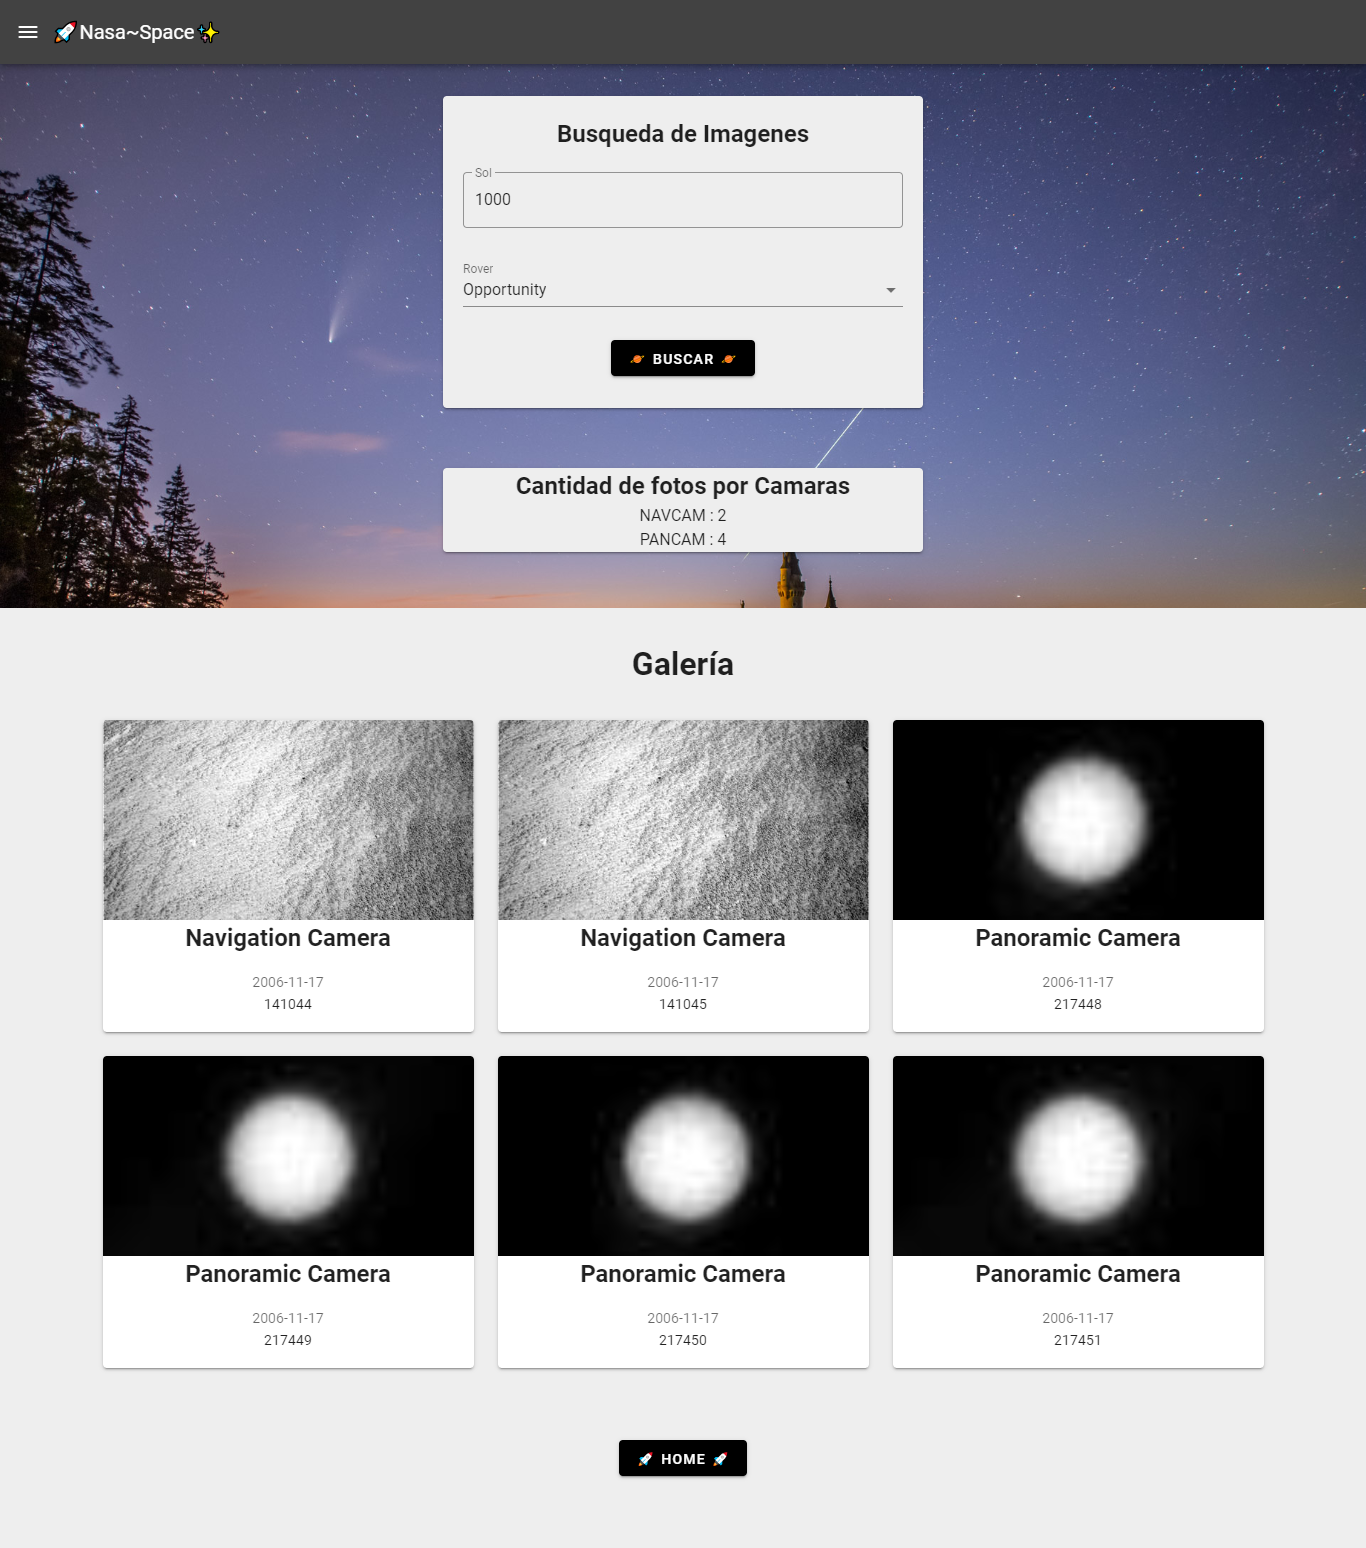
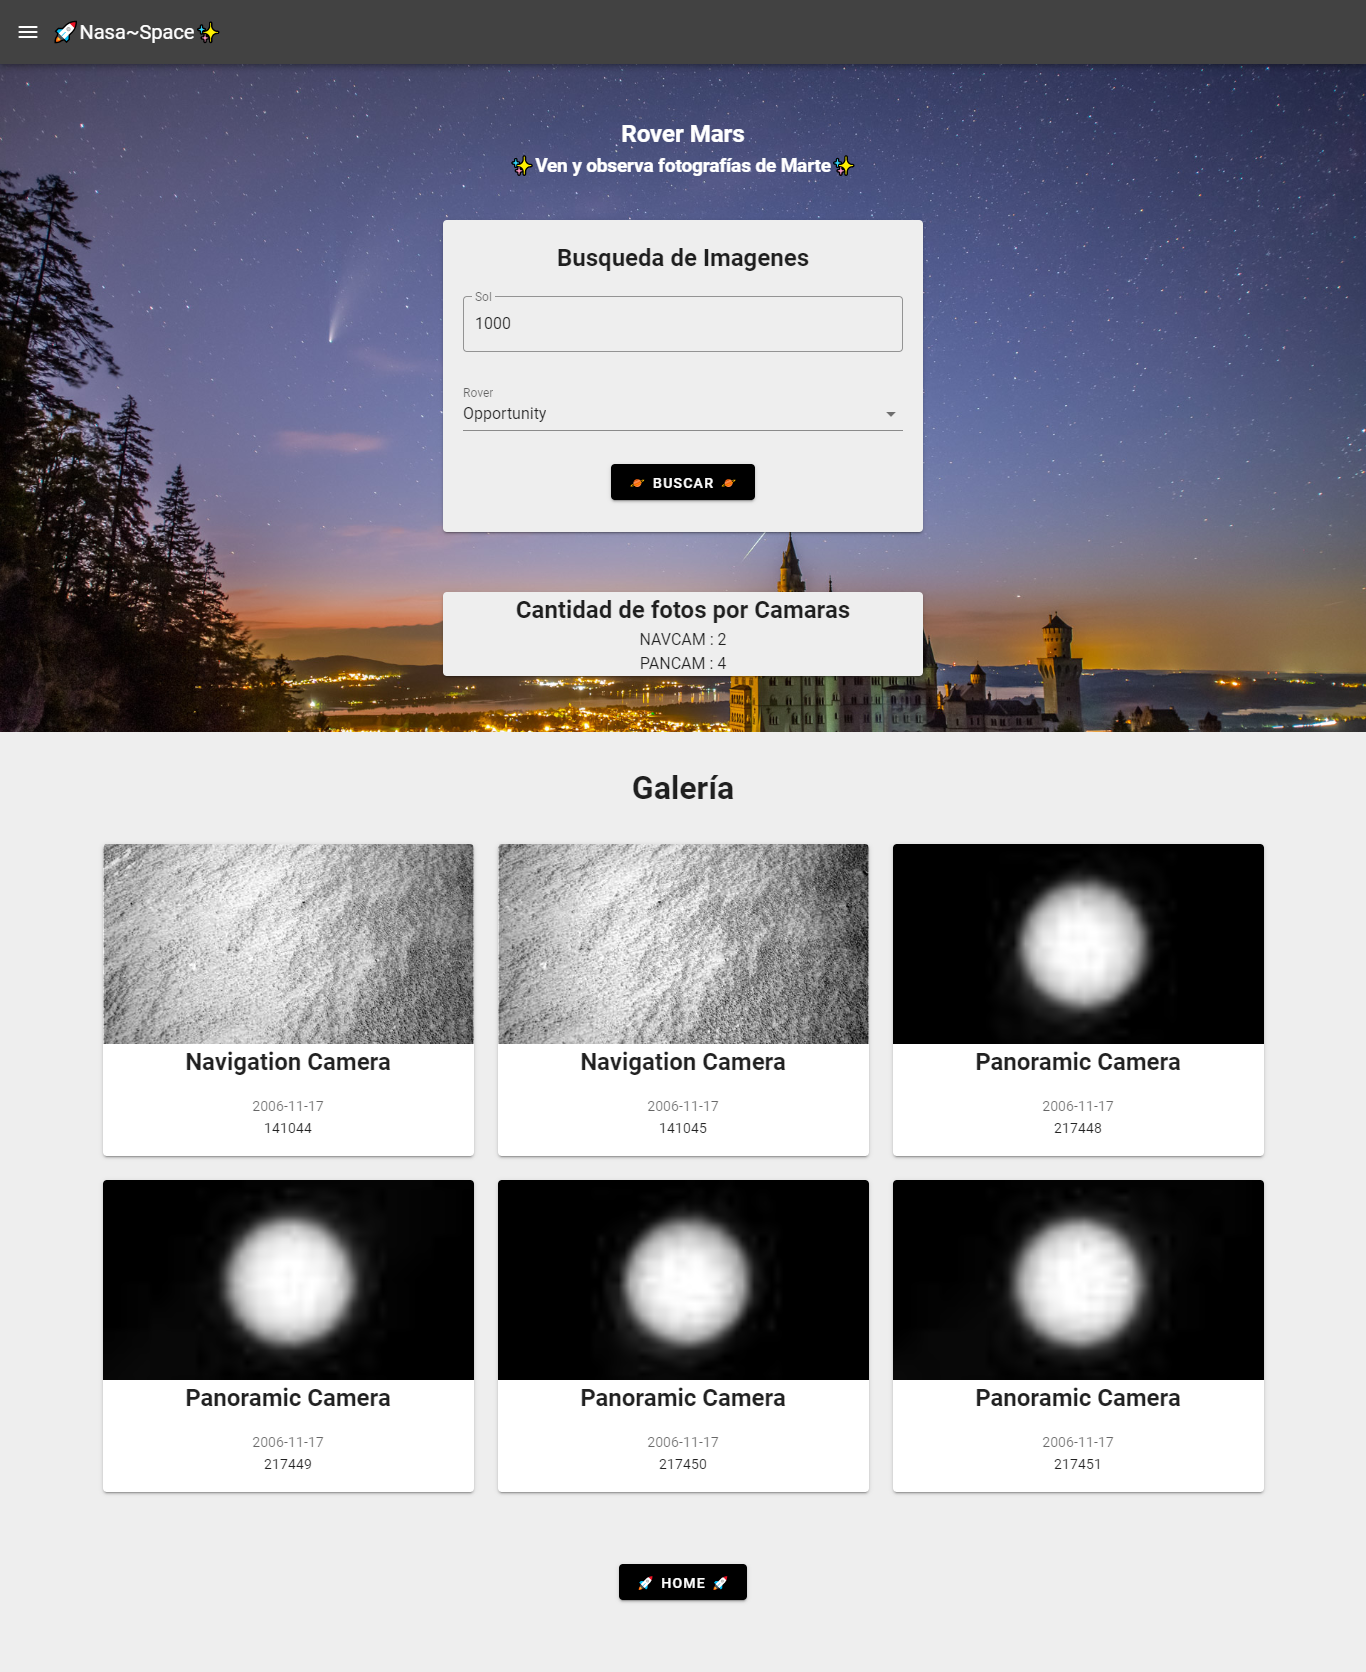
Avance 29 con mejoras en la vista Rover y README

diff --git a/src/components/RoverForm.vue b/src/components/RoverForm.vue
@@ -1,7 +1,9 @@
 <template>
-  <div class="rover">
+  <div class="rover__container">
     <!-- Formulario -->
     <section class="text-center">
+      <h1 class="mt-5 rover__title">Rover Mars</h1>
+      <h3 class="mb-10 rover__title">✨Ven y observa fotografías de Marte✨</h3>
       <v-card class="pa-5 grey lighten-3 mb-15 mx-auto" width="30em">
         <h1 class="text-center mb-5">Busqueda de Imagenes</h1>
           <v-text-field label="Sol" v-model="sol" type="number" outlined color="grey lighten-1"/>
@@ -55,11 +57,14 @@ import { mapActions, mapGetters } from 'vuex'
 </script>
 
 <style>
-.rover {
+.rover__container {
   margin: 0;
   background-image: url(https://apod.nasa.gov/apod/image/2007/SGUNeuschwansteinNeowiseIMG2532-1920.jpg) !important;
   background-size: cover !important;
   padding-top: 3em;
   padding-bottom: 1em;
+}
+.rover__title {
+  color: #FFF
 }
 </style>
